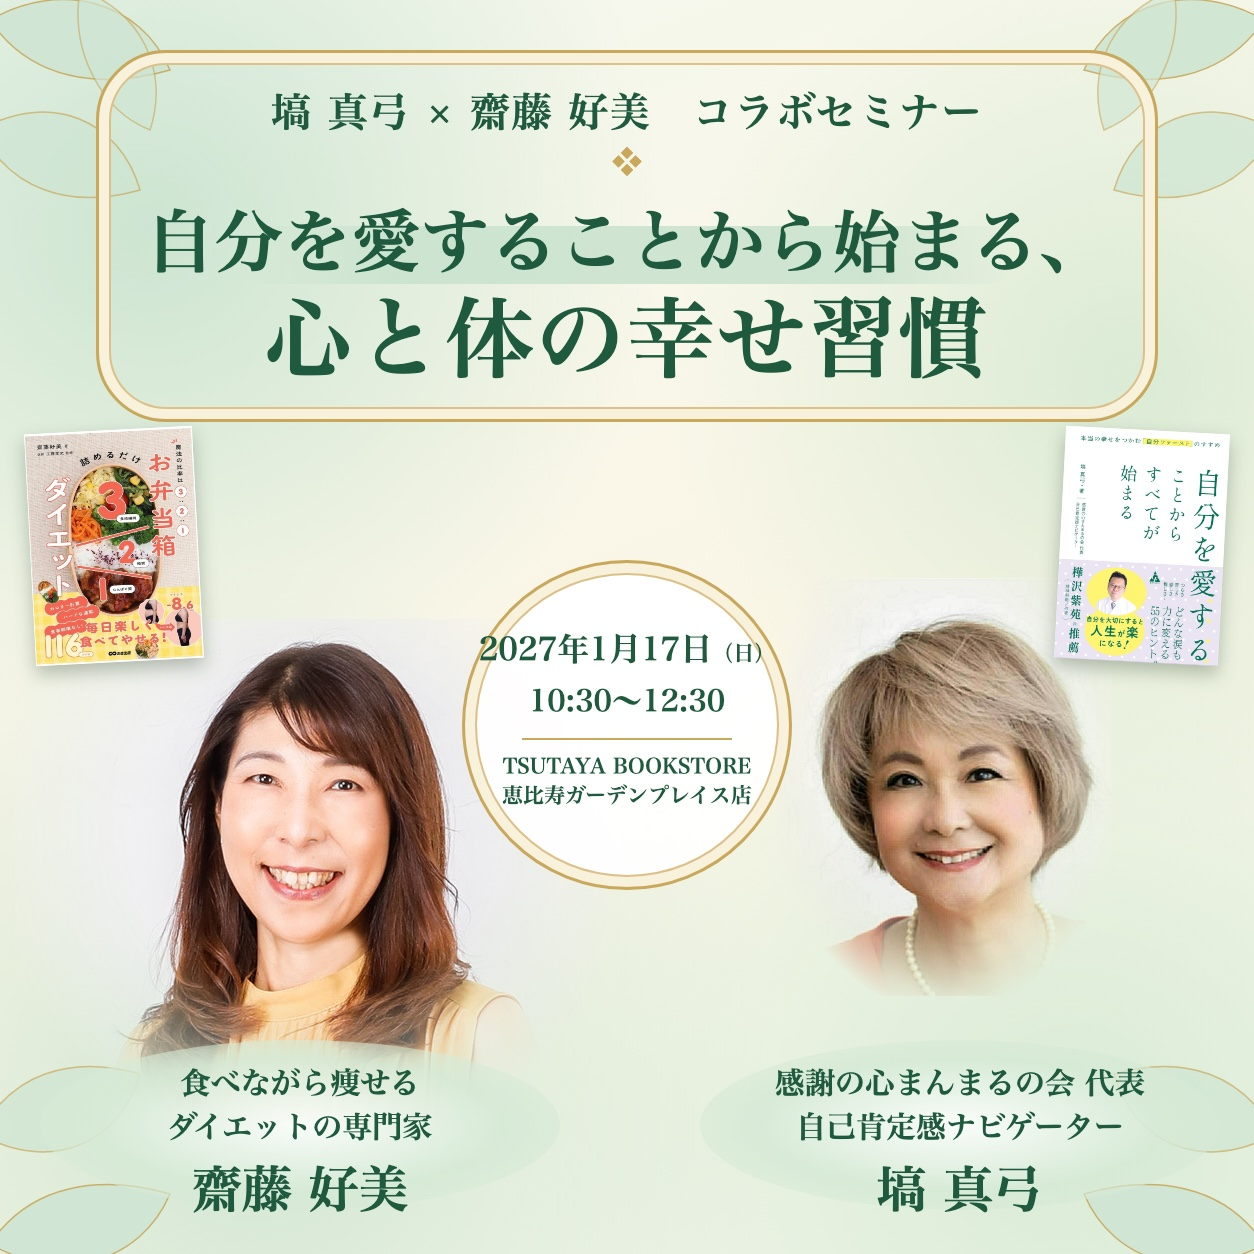
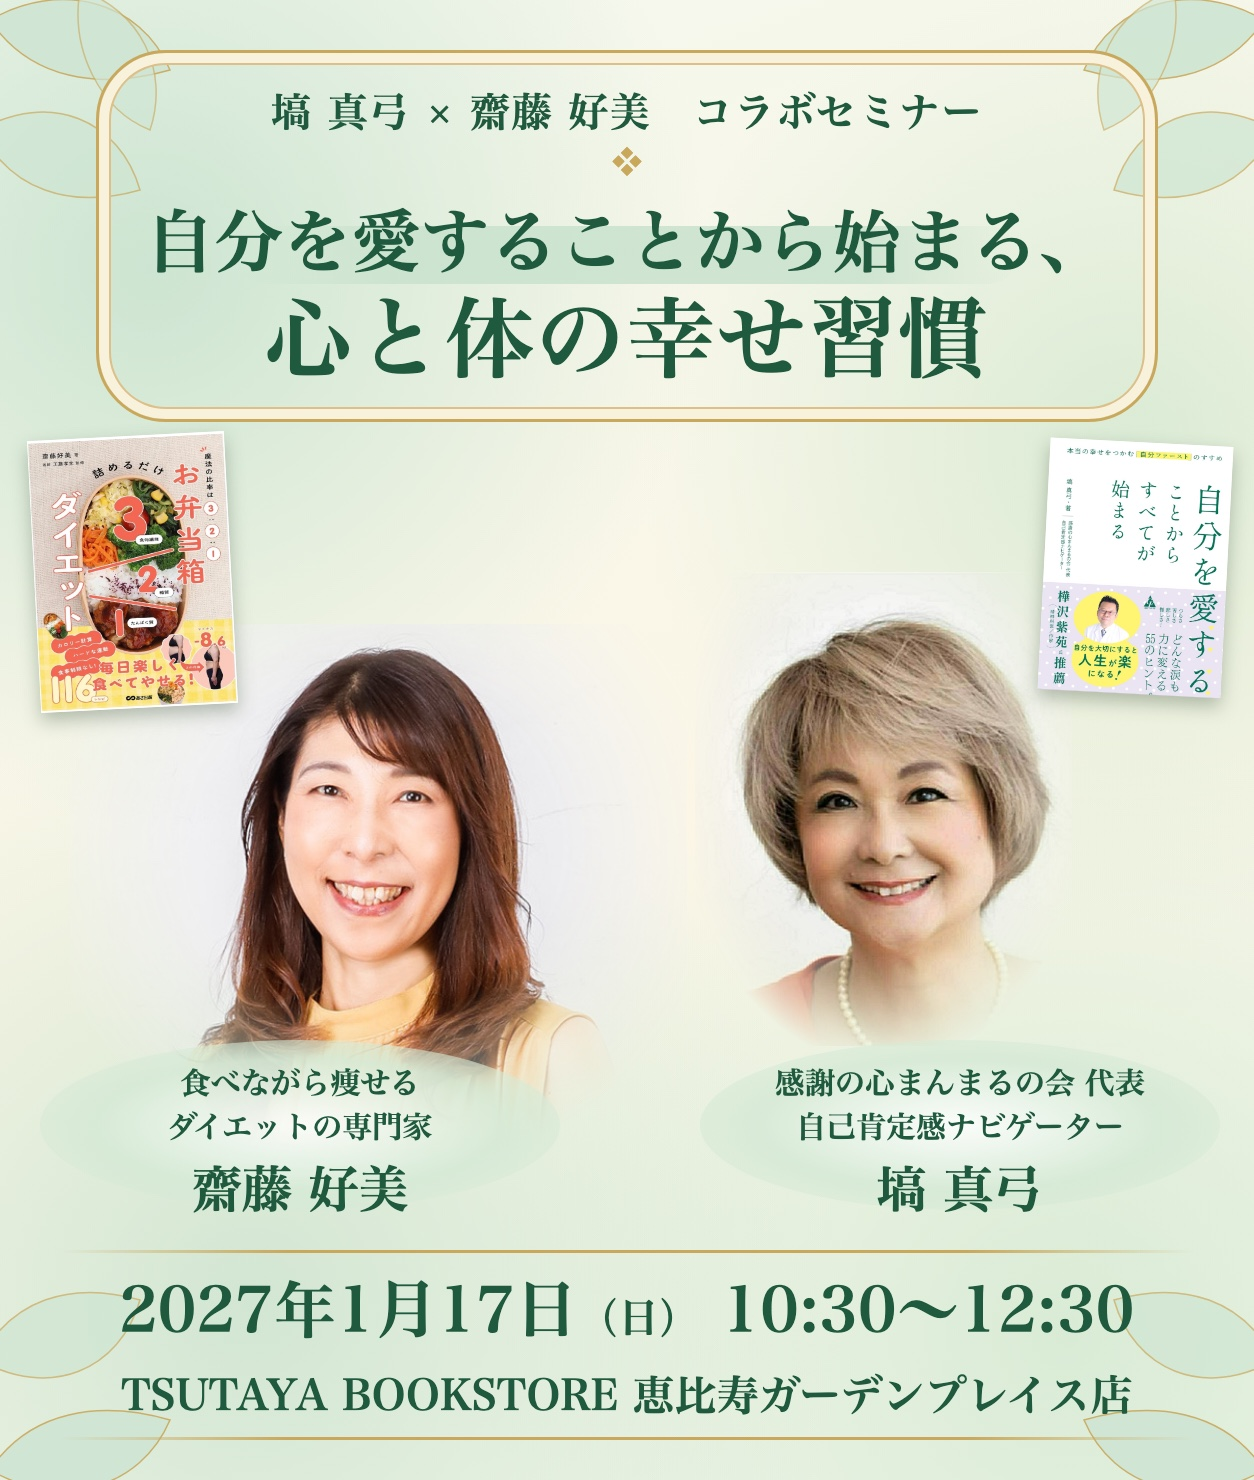
トップ画像を新しい縦長版に差し替え

diff --git a/index.html b/index.html
@@ -102,7 +102,7 @@ footer{font-size:14px;font-weight:600}
 
 <header class="hero">
   <div class="wrap">
-    <img class="hero-img" src="top.jpg" alt="塙真弓×齋藤好美 コラボセミナー 自分を愛することから始まる、心と体の幸せ習慣 2027年1月17日（日）10:30〜12:30 TSUTAYA BOOKSTORE 恵比寿ガーデンプレイス店" width="1254" height="1254">
+    <img class="hero-img" src="top.jpg" alt="塙真弓×齋藤好美 コラボセミナー 自分を愛することから始まる、心と体の幸せ習慣 2027年1月17日（日）10:30〜12:30 TSUTAYA BOOKSTORE 恵比寿ガーデンプレイス店" width="1254" height="1480">
     <h1 class="sr-only">自分を愛することから始まる、心と体の幸せ習慣（塙真弓×齋藤好美 コラボセミナー）</h1>
     <a class="btn apply-link" href="https://1lejend.com/stepmail/kd.php?no=frwxHSe">お申し込みはこちら</a>
   </div>
